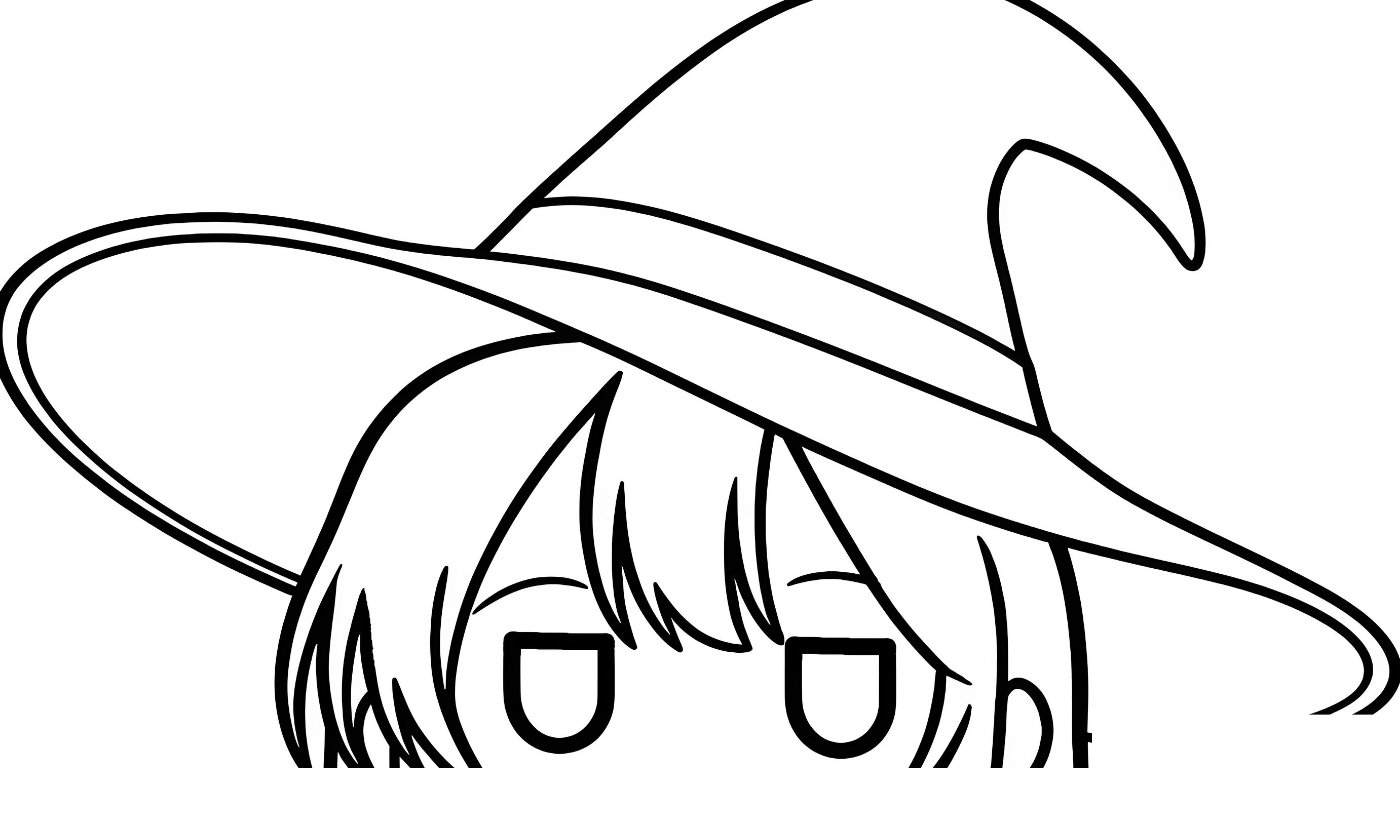
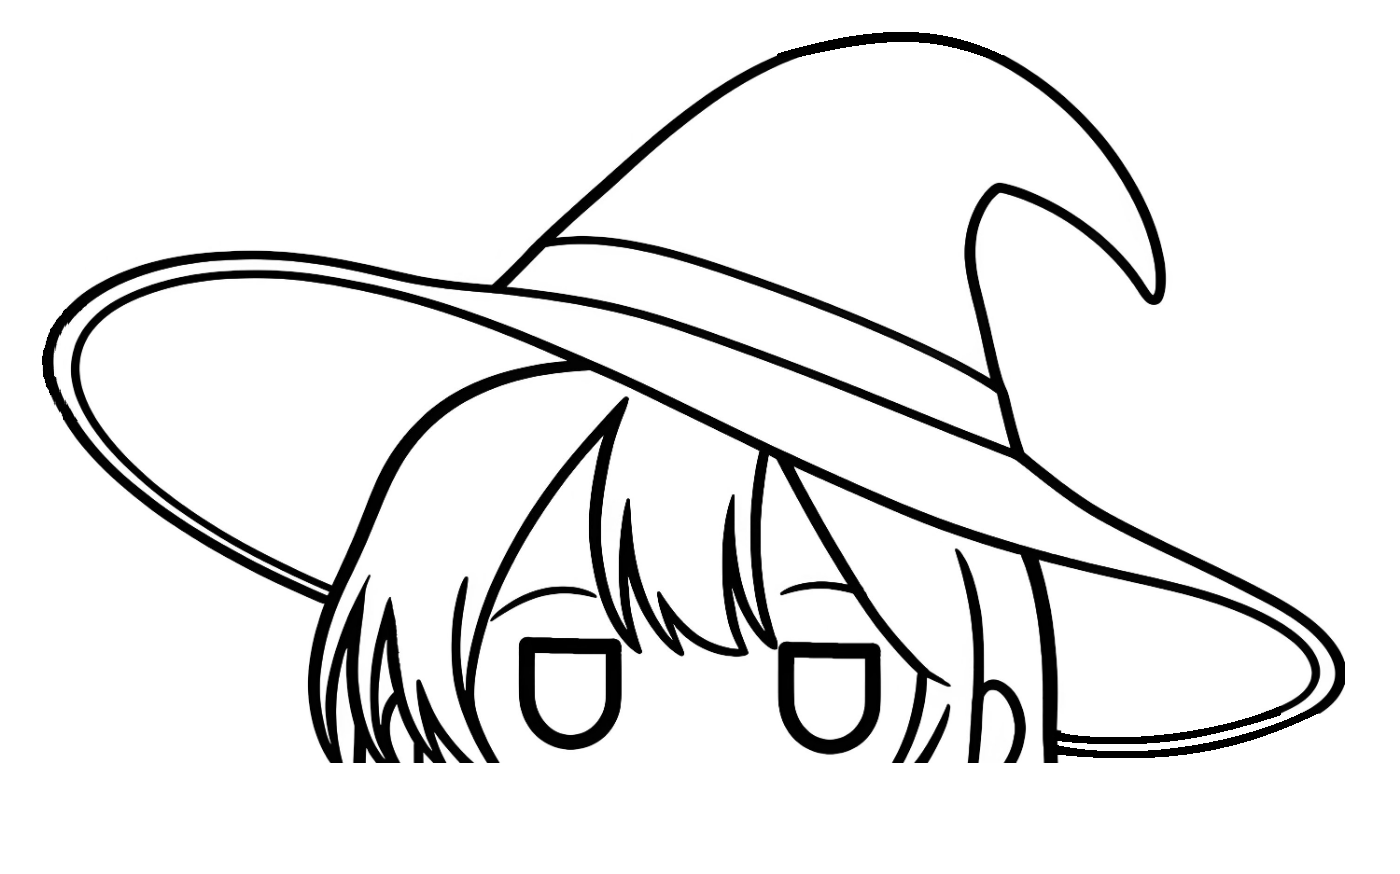
关于页横幅换用补齐帽檐后的线稿，去掉渐隐

diff --git a/web/src/pages/AboutPage.jsx b/web/src/pages/AboutPage.jsx
@@ -83,18 +83,18 @@ export default function AboutPage() {
         <div className="h-32 bg-primary-600/10 flex items-end justify-center relative overflow-hidden">
           {/* 用 mask 把线稿当遮罩涂成主题色：像素源自 PNG，不会有矢量描摹的断线 */}
           <div
-            className="absolute right-0 -bottom-2 h-[112%] aspect-[1400/829] bg-current text-muted opacity-50 pointer-events-none select-none"
+            className="absolute right-0 -bottom-2 h-[112%] aspect-[1400/874] bg-current text-muted opacity-50 pointer-events-none select-none"
             style={{
-              WebkitMaskImage: `url(${witchInk}), linear-gradient(to right, transparent 0%, #000 12%, #000 100%)`,
-              maskImage: `url(${witchInk}), linear-gradient(to right, transparent 0%, #000 12%, #000 100%)`,
+              WebkitMaskImage: `url(${witchInk})`,
+              maskImage: `url(${witchInk})`,
               WebkitMaskSize: 'contain',
               maskSize: 'contain',
               WebkitMaskRepeat: 'no-repeat',
               maskRepeat: 'no-repeat',
-              WebkitMaskPosition: 'bottom right, center',
-              maskPosition: 'bottom right, center',
-              WebkitMaskComposite: 'source-in',
-              maskComposite: 'intersect',
+              WebkitMaskPosition: 'bottom right',
+              maskPosition: 'bottom right',
+              WebkitMaskComposite: 'source-over',
+              maskComposite: 'add',
             }}
           />
           <div className="absolute inset-0 bg-gradient-to-b from-transparent via-transparent to-card"></div>
